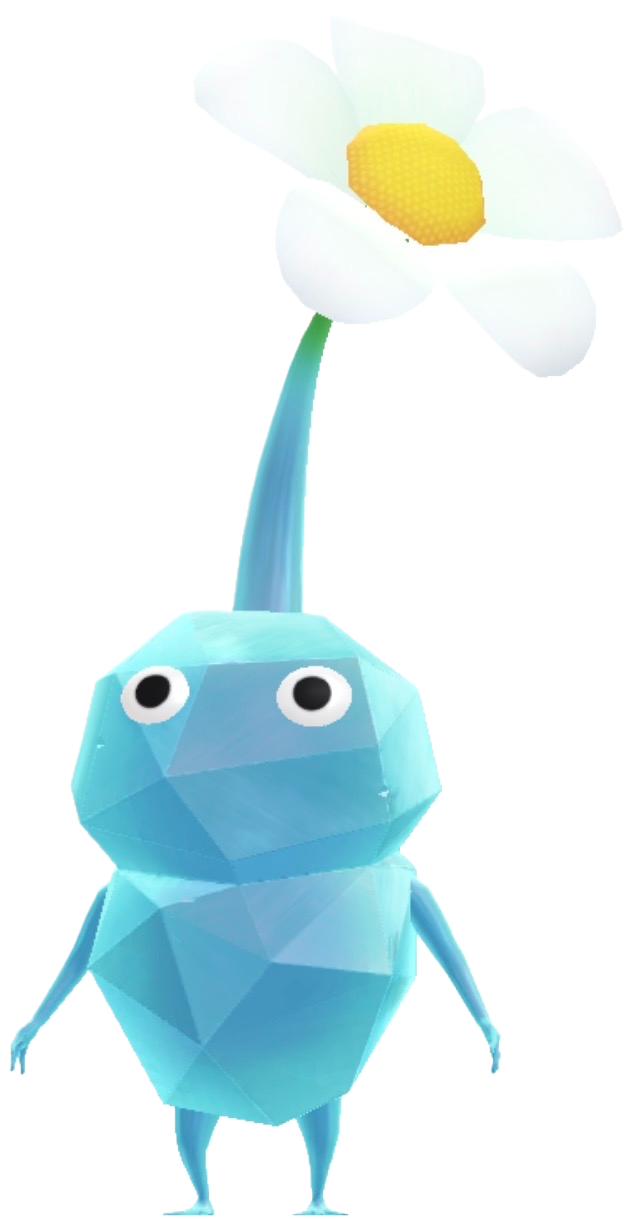
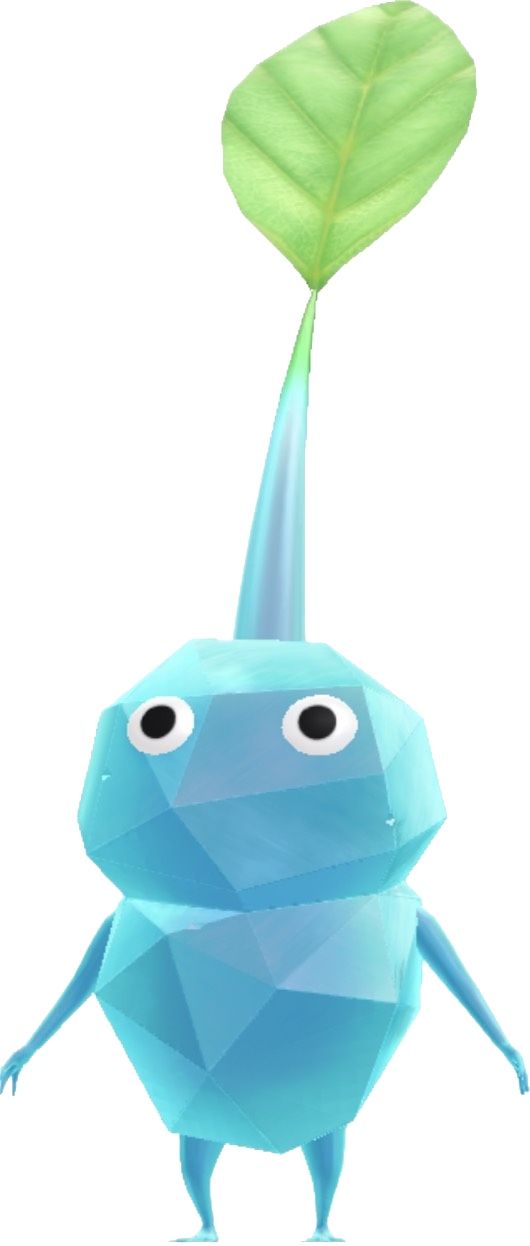
Pikmin draw: always animate regardless of Reduce Motion; update ice sprite
- Remove the prefers-reduced-motion override that disabled the pluck
  animations. macOS 減少動態效果 made Chrome report reduce and killed
  pot-wiggle/pluck-rise/pot-roll; it is a deliberate user-triggered
  animation, so it now always plays. The radar-sweep loop still respects
  the setting.
- Update ice.png sprite.

Changed region(s): [[0.0604, 0.0, 0.9962, 0.9975], [0.8453, 0.2806, 0.9358, 0.3117], [0.0, 0.8417, 0.0604, 0.904]]

diff --git a/src/style.css b/src/style.css
@@ -601,13 +601,7 @@ body.menu-collapsed #pane-resizer {
   }
 }
 
-@media (prefers-reduced-motion: reduce) {
-  .pikmin-stage.ready .pluck-pot,
-  .pikmin-stage.plucking .pluck-pikmin,
-  .pikmin-stage.plucking .pluck-pot {
-    animation: none;
-  }
-}
+/* 抽皮克敏是使用者主動點按鈕觸發的趣味動畫，刻意不受系統「減少動態效果」影響，一律播放。 */
 
 .pikmin-name {
   font-size: 18px;
